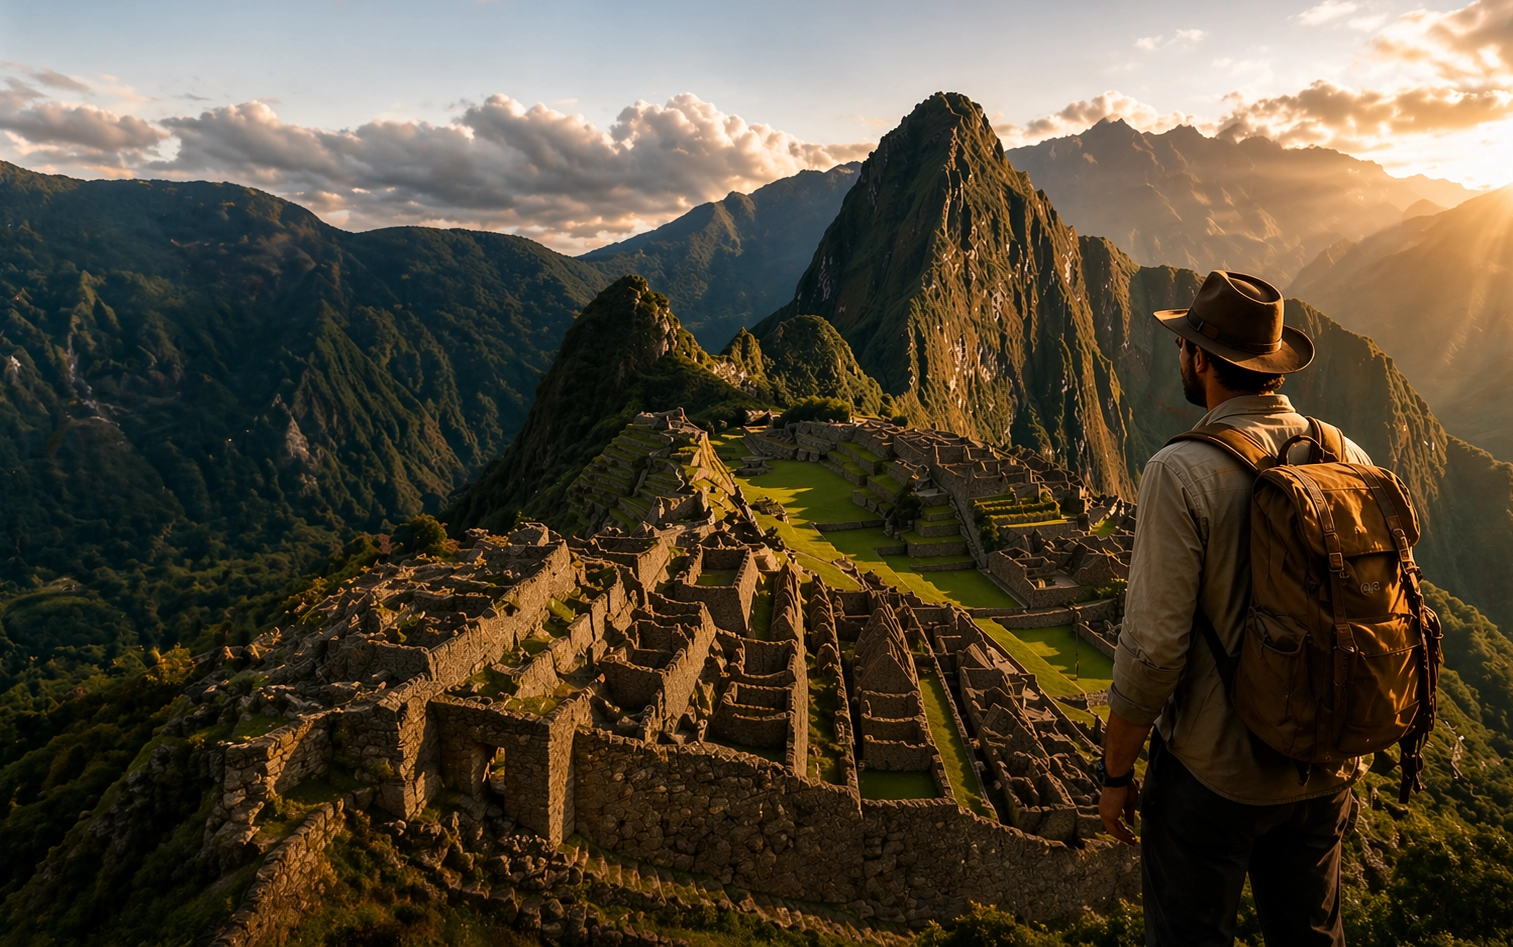
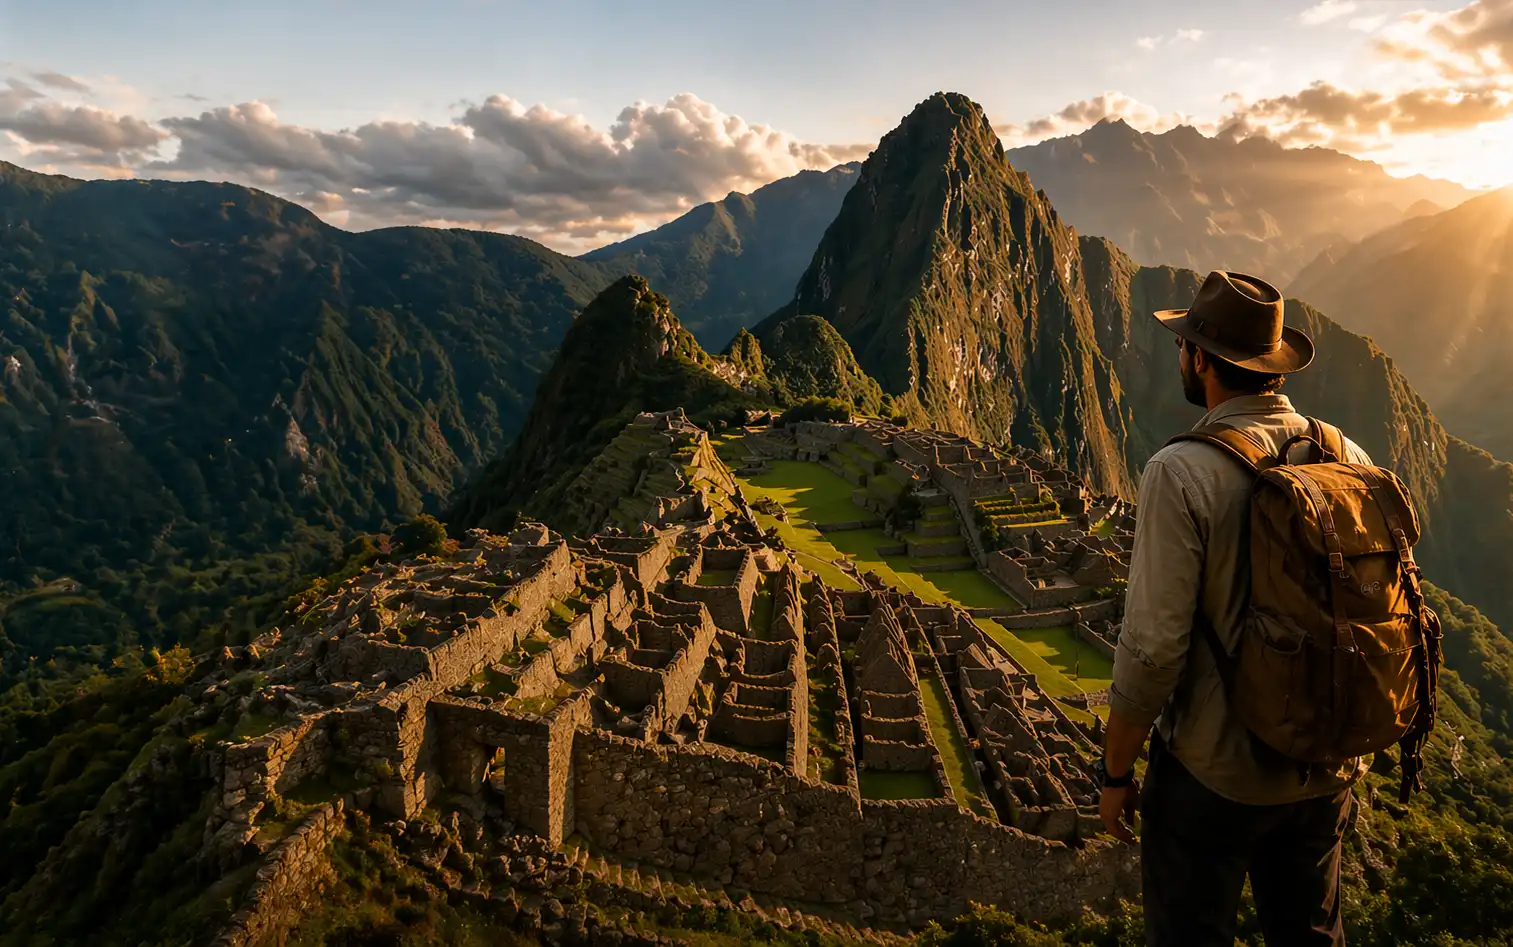
Images Converted to WEBP

diff --git a/index.html b/index.html
@@ -52,7 +52,7 @@
                 <nav class="nav__menu">
                     <ul class="menu__list">
                         <li>
-                            <a class="li__link" href="#">
+                            <a class="li__link" href="#zajezdy">
                                 DESTINACE
                                 <svg width="15" height="9" viewBox="0 0 15 9" fill="none" xmlns="http://www.w3.org/2000/svg">
                                     <path d="M0.32942 0.32942C0.540391 0.118493 0.826503 0 1.12483 0C1.42316 0 1.70927 0.118493 1.92024 0.32942L7.48899 5.89817L13.0577 0.32942C13.271 0.130936 13.5528 0.0228913 13.8441 0.0280184C14.1353 0.0331454 14.4133 0.151045 14.6193 0.35691C14.8254 0.562774 14.9436 0.840553 14.9491 1.1318C14.9545 1.42305 14.8468 1.70505 14.6486 1.91848L8.28528 8.28352C8.07431 8.49445 7.7882 8.61294 7.48987 8.61294C7.19154 8.61294 6.90543 8.49445 6.69446 8.28352L0.32942 1.92024C0.118493 1.70927 0 1.42316 0 1.12483C0 0.826503 0.118493 0.540391 0.32942 0.32942Z" fill="#1F3D3A"/>
@@ -60,10 +60,10 @@
                             </a>
                         </li>
                         <li>
-                            <a class="li__link" href="">TYPY ZÁJEZDŮ</a>
+                            <a class="li__link" href="#vyhody">VÝHODY</a>
                         </li>
                         <li>
-                            <a class="li__link" href="#">
+                            <a class="li__link" href="#favourite">
                                 INSPIRACE
                                 <svg width="15" height="9" viewBox="0 0 15 9" fill="none" xmlns="http://www.w3.org/2000/svg">
                                     <path d="M0.32942 0.32942C0.540391 0.118493 0.826503 0 1.12483 0C1.42316 0 1.70927 0.118493 1.92024 0.32942L7.48899 5.89817L13.0577 0.32942C13.271 0.130936 13.5528 0.0228913 13.8441 0.0280184C14.1353 0.0331454 14.4133 0.151045 14.6193 0.35691C14.8254 0.562774 14.9436 0.840553 14.9491 1.1318C14.9545 1.42305 14.8468 1.70505 14.6486 1.91848L8.28528 8.28352C8.07431 8.49445 7.7882 8.61294 7.48987 8.61294C7.19154 8.61294 6.90543 8.49445 6.69446 8.28352L0.32942 1.92024C0.118493 1.70927 0 1.42316 0 1.12483C0 0.826503 0.118493 0.540391 0.32942 0.32942Z" fill="#1F3D3A"/>
@@ -71,10 +71,10 @@
                             </a>
                         </li>
                         <li>
-                            <a class="li__link" href="contact.html">O NÁS</a>
+                            <a class="li__link" href="contact.html">KONTAKT</a>
                         </li>
                         <li>
-                            <a class="li__link" href="contact.html">KONTAKT</a>
+                            <a class="li__link" href="contact.html#team">NÁŠ TÝM</a>
                         </li>
                         <li>
                             <a class="menu__fav" href="#">
@@ -84,7 +84,7 @@
                             </a>
                         </li>
                         <li>
-                            <a class="button button--fill" href="#">
+                            <a class="button button--fill" href="contact.html#write">
                                 <p>POPTÁVKA ZÁJEZDU</p>
                             </a>
                         </li>
@@ -97,14 +97,14 @@
                 <h2 class="title__bottom">Poznávací zájezdy do Afriky, Ameriky a Asie pro ty, kteří chtějí zažít víc než jen dovolenou.</h2>
             </div>
             <div class="header__buttons">
-                <a class="button button--fill" href="#">
+                <a class="button button--fill" href="#zajezdy">
                     <p>OBJEVTE ZÁJEZDY</p>
                     <svg width="21" height="17" viewBox="0 0 21 17" fill="none" xmlns="http://www.w3.org/2000/svg">
                         <path d="M1.5 8.5H19" stroke="#F4EFE6" stroke-width="3" stroke-linecap="round" stroke-linejoin="round"/>
                         <path d="M12.5001 15.5L19.5001 8.5L12.5001 1.5" stroke="#F4EFE6" stroke-width="3" stroke-linecap="round" stroke-linejoin="round"/>
                     </svg>
                 </a>
-                <a class="button button--transparent" href="#">
+                <a class="button button--transparent" href="#favourite">
                     <p>KAM SE VYDÁTE?</p>
                     <svg class="compass" width="24" height="24" viewBox="0 0 24 24" fill="none" xmlns="http://www.w3.org/2000/svg">
                         <mask id="path-1-inside-1_17_411" fill="white">
@@ -216,7 +216,7 @@
                 </div>
             </section>
         </section>
-        <section class="travel">
+        <section class="travel" id="vyhody">
             <section class="travel__info">
                 <p class="info__start">PROČ CESTOVAT S NÁMI?</p>
                 <p class="info__title">Cesty, které dávají&nbsp;smysl</p>
@@ -269,7 +269,7 @@
             </section>
         </section>
 
-        <section class="favourite">
+        <section class="favourite" id="favourite">
             <div class="favourite__top">
                 <div class="top__title">
                     <p class="title__fav">OBLÍBENÉ ZÁJEZDY</p>
@@ -287,7 +287,7 @@
             <div class="favourite__items">
                 <a class="items__card">
                     <div class="image__wrapper">
-                        <img class="card__image" src="images/jeep_safari.jpg" alt="jeep">
+                        <img class="card__image" src="images/jeep_safari.webp" alt="jeep">
                         <svg class="card__fav" width="41" height="41" viewBox="0 0 41 41" fill="none" xmlns="http://www.w3.org/2000/svg">
                             <path d="M20.2752 13.5168C20.2752 13.5168 20.2752 13.5168 18.9911 11.8272C17.5042 9.86726 15.3078 8.448 12.672 8.448C8.46488 8.448 5.06879 11.8441 5.06879 16.0512C5.06879 17.6225 5.54187 19.0756 6.35288 20.2752C7.72146 22.3196 20.2752 35.4816 20.2752 35.4816M20.2752 13.5168C20.2752 13.5168 20.2752 13.5168 21.5593 11.8272C23.0461 9.86726 25.2426 8.448 27.8784 8.448C32.0855 8.448 35.4816 11.8441 35.4816 16.0512C35.4816 17.6225 35.0085 19.0756 34.1975 20.2752C32.8289 22.3196 20.2752 35.4816 20.2752 35.4816" stroke="white" stroke-width="3.3792" stroke-linecap="round" stroke-linejoin="round"/>
                         </svg>
@@ -312,7 +312,7 @@
                 </a>
                 <a class="items__card">
                     <div class="image__wrapper">
-                        <img class="card__image" src="images/boat_sea.jpg" alt="jeep">
+                        <img class="card__image" src="images/boat_sea.webp" alt="jeep">
                         <svg class="card__fav" width="41" height="41" viewBox="0 0 41 41" fill="none" xmlns="http://www.w3.org/2000/svg">
                             <path d="M20.2752 13.5168C20.2752 13.5168 20.2752 13.5168 18.9911 11.8272C17.5042 9.86726 15.3078 8.448 12.672 8.448C8.46488 8.448 5.06879 11.8441 5.06879 16.0512C5.06879 17.6225 5.54187 19.0756 6.35288 20.2752C7.72146 22.3196 20.2752 35.4816 20.2752 35.4816M20.2752 13.5168C20.2752 13.5168 20.2752 13.5168 21.5593 11.8272C23.0461 9.86726 25.2426 8.448 27.8784 8.448C32.0855 8.448 35.4816 11.8441 35.4816 16.0512C35.4816 17.6225 35.0085 19.0756 34.1975 20.2752C32.8289 22.3196 20.2752 35.4816 20.2752 35.4816" stroke="white" stroke-width="3.3792" stroke-linecap="round" stroke-linejoin="round"/>
                         </svg>
@@ -337,7 +337,7 @@
                 </a>
                 <a class="items__card">
                     <div class="image__wrapper">
-                        <img class="card__image" src="images/cuba_old_car.jpg" alt="jeep">
+                        <img class="card__image" src="images/cuba_old_car.webp" alt="jeep">
                         <svg class="card__fav" width="41" height="41" viewBox="0 0 41 41" fill="none" xmlns="http://www.w3.org/2000/svg">
                             <path d="M20.2752 13.5168C20.2752 13.5168 20.2752 13.5168 18.9911 11.8272C17.5042 9.86726 15.3078 8.448 12.672 8.448C8.46488 8.448 5.06879 11.8441 5.06879 16.0512C5.06879 17.6225 5.54187 19.0756 6.35288 20.2752C7.72146 22.3196 20.2752 35.4816 20.2752 35.4816M20.2752 13.5168C20.2752 13.5168 20.2752 13.5168 21.5593 11.8272C23.0461 9.86726 25.2426 8.448 27.8784 8.448C32.0855 8.448 35.4816 11.8441 35.4816 16.0512C35.4816 17.6225 35.0085 19.0756 34.1975 20.2752C32.8289 22.3196 20.2752 35.4816 20.2752 35.4816" stroke="white" stroke-width="3.3792" stroke-linecap="round" stroke-linejoin="round"/>
                         </svg>
@@ -362,7 +362,7 @@
                 </a>
                 <a class="items__card">
                     <div class="image__wrapper">
-                        <img class="card__image" src="images/temple_forest.jpg" alt="jeep">
+                        <img class="card__image" src="images/temple_forest.webp" alt="jeep">
                         <svg class="card__fav" width="41" height="41" viewBox="0 0 41 41" fill="none" xmlns="http://www.w3.org/2000/svg">
                             <path d="M20.2752 13.5168C20.2752 13.5168 20.2752 13.5168 18.9911 11.8272C17.5042 9.86726 15.3078 8.448 12.672 8.448C8.46488 8.448 5.06879 11.8441 5.06879 16.0512C5.06879 17.6225 5.54187 19.0756 6.35288 20.2752C7.72146 22.3196 20.2752 35.4816 20.2752 35.4816M20.2752 13.5168C20.2752 13.5168 20.2752 13.5168 21.5593 11.8272C23.0461 9.86726 25.2426 8.448 27.8784 8.448C32.0855 8.448 35.4816 11.8441 35.4816 16.0512C35.4816 17.6225 35.0085 19.0756 34.1975 20.2752C32.8289 22.3196 20.2752 35.4816 20.2752 35.4816" stroke="white" stroke-width="3.3792" stroke-linecap="round" stroke-linejoin="round"/>
                         </svg>
@@ -396,7 +396,7 @@
                 <p class="readyinfo__bottom">Ozvěte se nám a my vám pomůžeme naplánovat cestu snů.</p>
             </div>
             </div>
-            <a class="ready__button" href="contact.html">
+            <a class="ready__button" href="contact.html#write">
                 <span>KONTAKTUJTE NÁS</span>
                 <svg width="24" height="24" viewBox="0 0 24 24" fill="none" xmlns="http://www.w3.org/2000/svg">
                     <path d="M8.88672 7.82935L7.1709 9.41919L6.27734 10.2473L6.90332 11.2922C7.36579 12.063 8.25358 13.4648 9.38965 14.6008C10.5263 15.7374 11.9281 16.6247 12.7158 17.0911L13.7578 17.7073L14.5801 16.8196L16.1699 15.1028L20.3086 17.8596L18.4844 20.4905H18.4102C16.9796 20.4905 11.8923 20.1708 7.85059 16.1292L7.84961 16.1282L7.44238 15.7043C3.70848 11.6607 3.48844 6.75335 3.49609 5.51685L6.13184 3.6936L8.88672 7.82935Z" stroke="#F4EFE6" stroke-width="3"/>
@@ -408,10 +408,10 @@
     <footer class="footer">
         <div class="footer__up">
             <div class="up__logo">
-                <div class="logo__section">
+                <a class="logo__section" href="index.html">
                     <img src="images/company_logo.webp" alt="logo_footer">
                     <p class="section__title">MARCO POLO<br><span class="title__travel">TRAVEL</span></p>
-                </div>
+                </a>
                 <p class="up__info">Poznávací zájezdy do Afriky, Ameriky a Asie pro ty, kteří chtějí zažít víc než jen dovolenou.</p>
                 <div class="up__icons">
                     <a class="icons__link" href="https://www.facebook.com/">
@@ -435,8 +435,8 @@
                 <p class="links__title">Rychlé odkazy</p>
                 <a class="links__item" href="#">Destinace</a>
                 <a class="links__item" href="#">Typy zájezdů</a>
-                <a class="links__item" href="#">O nás</a>
                 <a class="links__item" href="#">Kontakt</a>
+                <a class="links__item" href="#">Náš tým</a>
             </div>
             <div class="up__links">
                 <p class="links__title">Oblíbené destinace</p>

diff --git a/contact.html b/contact.html
@@ -190,28 +190,28 @@ href="https://cdn.jsdelivr.net/npm/swiper@11/swiper-bundle.min.css">
             </div>
             <div class="team__list">
                 <div class="list__item">
-                    <img class="item__profile" src="images/profile_man.png" alt="dzonda">
+                    <img class="item__profile" src="images/profile_man.webp" alt="dzonda">
                     <p class="item__worker">Jan Dvořák</p>
                     <p class="item__position">Zakladatel a CEO</p>
                     <p class="item__desc">Cestovatel a dobrodruh s vášní pro objevování nepoznaného.</p>
                 </div>
 
                 <div class="list__item">
-                    <img class="item__profile" src="images/profile_woman.png" alt="pitr">
+                    <img class="item__profile" src="images/profile_woman.webp" alt="pitr">
                     <p class="item__worker">Petra Svobodová</p>
                     <p class="item__position">Produktová manažerka</p>
                     <p class="item__desc">Specialistka na itineráře a autentické zážitky v Africe a Asii.</p>
                 </div>
                 
                 <div class="list__item">
-                    <img class="item__profile" src="images/profile_man_var2.png" alt="dzonda">
+                    <img class="item__profile" src="images/profile_man_var2.webp" alt="dzonda">
                     <p class="item__worker">Tomáš Novotný</p>
                     <p class="item__position">Průvodce a fotograf</p>
                     <p class="item__desc">Miluje divokou přírodu a zachycuje krásy svým objektivem.</p>
                 </div>
                 
                 <div class="list__item">
-                    <img class="item__profile" src="images/woman_2.png" alt="dzonda">
+                    <img class="item__profile" src="images/woman_2.webp" alt="dzonda">
                     <p class="item__worker">Lucie Benešová</p>
                     <p class="item__position">Zákaznická podpora</p>
                     <p class="item__desc">Ráda vám poradí a pomůže s výběrem vaší cesty snů.</p>
@@ -228,20 +228,20 @@ href="https://cdn.jsdelivr.net/npm/swiper@11/swiper-bundle.min.css">
                 <div class="forms__fill">
                     <form action="https://formsubmit.co/viktor.oravec.024@pslib.cz" method="POST">
                         <p class="forms__first">Jméno a příjmení <span class="name__red">*</span></p>
-                        <input class="forms__input forms__input--name" type="text" name="jmeno" placeholder="Dan Přibáň" required>
+                        <input class="forms__input forms__input--name" type="text" name="Jméno a příjmení" placeholder="Dan Přibáň" required>
 
                         <p class="forms__other">Váš e-mail <span class="name__red">*</span></p>
-                        <input class="forms__input forms__input--mail" type="email" name="email" placeholder="email@example.com" required>
+                        <input class="forms__input forms__input--mail" type="email" name="E-mail" placeholder="email@example.com" required>
 
                         <p class="forms__other">Předmět zprávy <span class="name__red">*</span></p>
-                        <input class="forms__input forms__input--object" type="text" name="predmet" placeholder="Poptávka zájezdu" required>
+                        <input class="forms__input forms__input--object" type="text" name="Předmět" placeholder="Poptávka zájezdu" required>
 
                         <p class="forms__other">Zpráva</p>
-                        <textarea class="forms__input forms__input--message" name="zprava" placeholder="Obsah zprávy"></textarea>
+                        <textarea class="forms__input forms__input--message" name="Zpráva" placeholder="Obsah zprávy"></textarea>
 
                         <div class="forms__footer">
                             <div class="forms__consent">
-                                <input type="checkbox" id="consent" name="consent" required>
+                                <input type="checkbox" id="consent" name="Souhlas s podmínkami" required>
                                 <label class="consent__info" for="consent">
                                     Souhlasím se zpracováním
                                     <a class="personal" href="https://mpsv.gov.cz/informace-o-zpracovani-osobnich-udaju-gdpr-">
@@ -263,7 +263,7 @@ href="https://cdn.jsdelivr.net/npm/swiper@11/swiper-bundle.min.css">
                     </form>
                 </div>
                 <div class="image__advert">
-                    <img class="advert__africa" src="images/offroad.png" alt="jeep_safari">
+                    <img class="advert__africa" src="images/offroad.webp" alt="jeep_safari">
                 </div>
             </div>
         </section>

diff --git a/style/style_main.css b/style/style_main.css
@@ -188,7 +188,6 @@
         word-break: break-word;
         text-shadow: 2px 2px 4px rgba(0, 0, 0, 0.8);
     }
-
     .title__bottom {
         font-family: var(--inter);
         font-weight: 600;
@@ -419,7 +418,7 @@
             rgba(0, 0, 0, 0) 25%,
             rgba(0, 0, 0, 0.9)
         ),
-        url("../images/temple_forest2.jpg");
+        url("../images/temple_forest2.webp");
         background-size: cover;
         background-position: center;
         background-repeat: no-repeat;
@@ -436,7 +435,7 @@
             rgba(0, 0, 0, 0) 25%,
             rgba(0, 0, 0, 0.9)
         ),
-        url("../images/africa.png");
+        url("../images/africa.webp");
         background-size: cover;
         background-position: center;
         background-repeat: no-repeat;
@@ -448,7 +447,7 @@
             rgba(0, 0, 0, 0) 25%,
             rgba(0, 0, 0, 0.9)
         ),
-        url("../images/peru_city.jpg");
+        url("../images/peru_city.webp");
         background-size: cover;
         background-position: center;
         background-repeat: no-repeat;
@@ -460,7 +459,7 @@
             rgba(0, 0, 0, 0) 25%,
             rgba(0, 0, 0, 0.9)
         ),
-        url("../images/kangaroo.png");
+        url("../images/kangaroo.webp");
         background-size: cover;
         background-position: center;
         background-repeat: no-repeat;

diff --git a/style/style_contact.css b/style/style_contact.css
@@ -43,7 +43,7 @@
             to bottom left,
             rgba(0, 0, 0, 0) 30%,
             rgba(0, 0, 0, 0.9)
-        ),url("../images/contact_background.png");
+        ),url("../images/contact_background.webp");
         background-size: cover;
         background-position: center top;
         background-repeat: no-repeat;
@@ -925,6 +925,7 @@
         display: flex;
         flex-direction: column;
         align-items: center;
+        text-decoration: none;
     }
     @media(min-width: 600px) {
         .logo__section {
@@ -940,6 +941,7 @@
         text-align: center;
         margin: 0;
         margin-top: 1rem;
+        text-decoration: none;
     }
     .title__travel {
         padding-left: .9rem;
